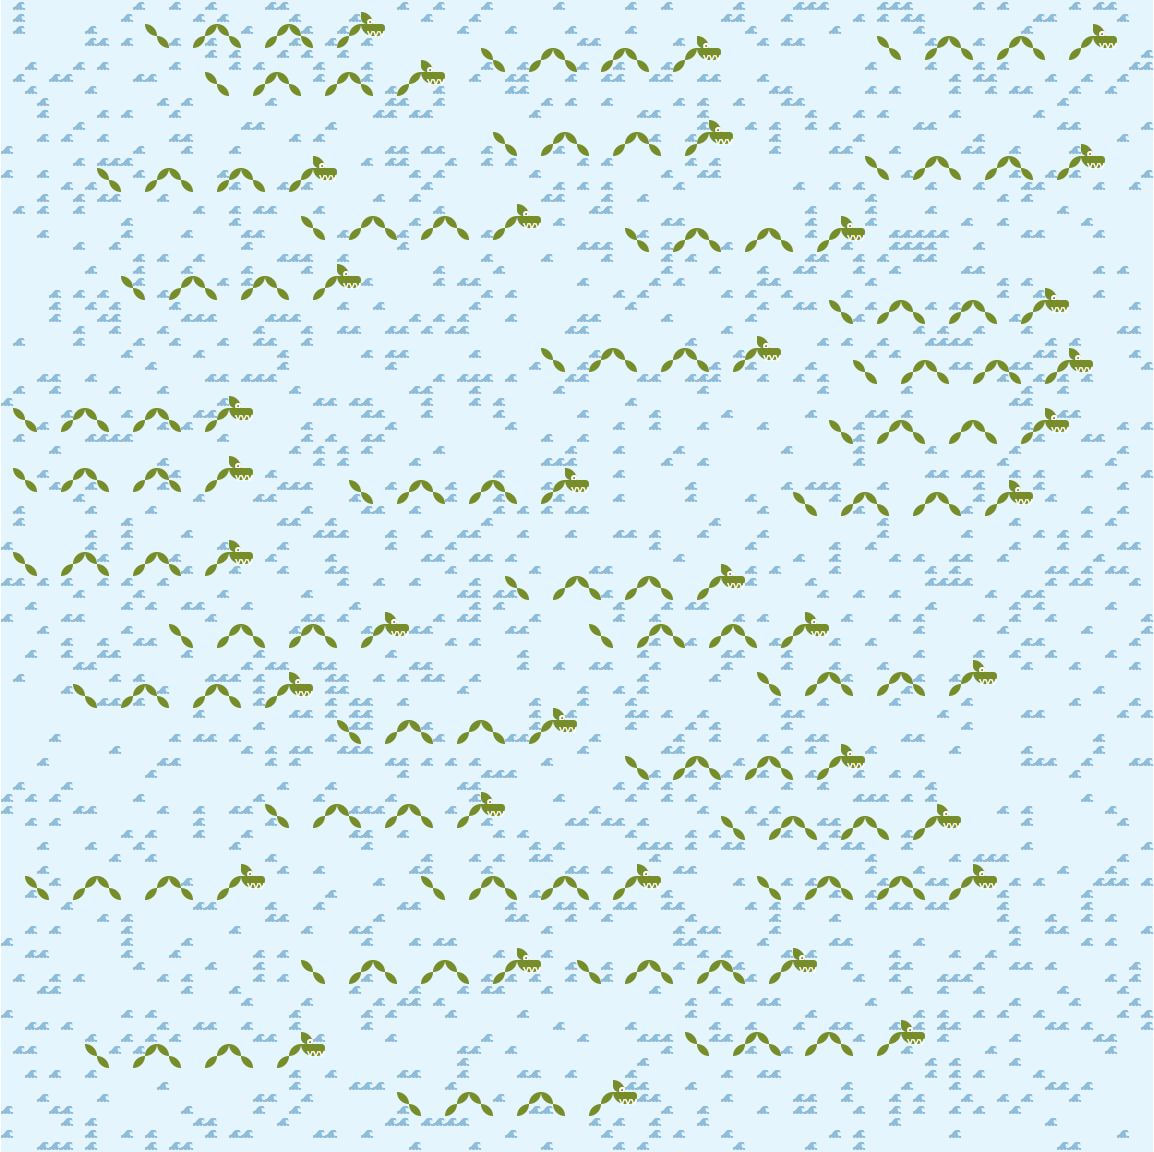
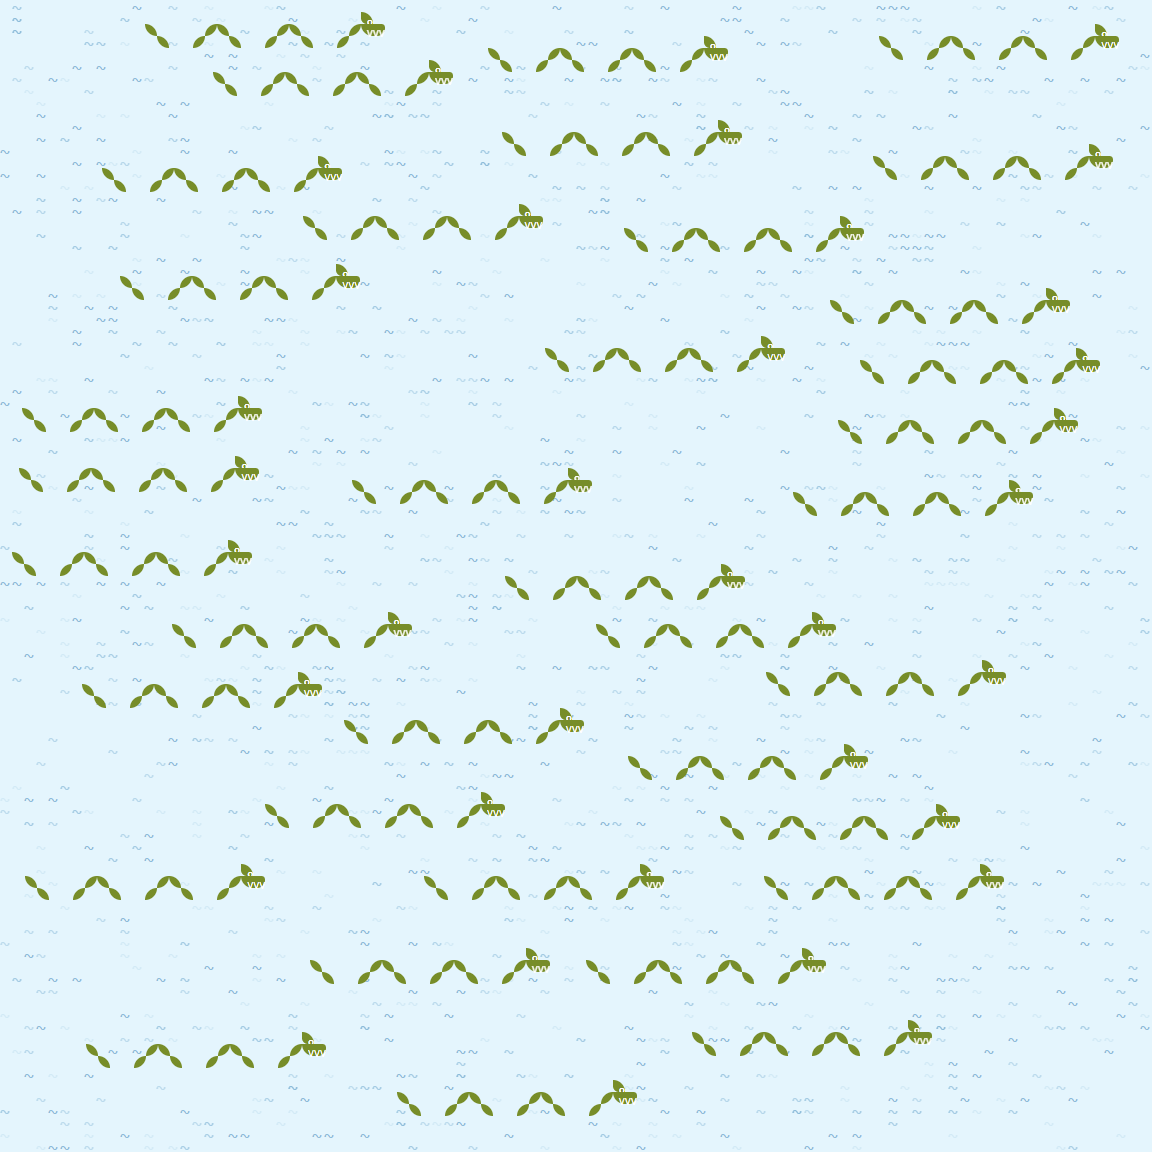
tuned the animation some more

diff --git a/2020/day20/index.html b/2020/day20/index.html
@@ -8,19 +8,19 @@
         #root {
             background-color: #dcf5fd;
             position:absolute;
-            width: 576px;
-            height: 576px;
-            zoom:2;
+            width: 1152px;
+            height: 1152px;
+            /*zoom:2;*/
         }
         .p {
             position:absolute;
-            height: 6px;
-            width: 6px;
-            font-size: 6px;
+            height: 12px;
+            width: 12px;
+            font-size: 12px;
         }
         .t1 {    
             color: #70bcda;
-            margin-top: -2px;
+            margin-top: -4px;
             -webkit-transition: opacity 1s ease-in-out;
             -moz-transition: opacity 1s ease-in-out;
             -ms-transition: opacity 1s ease-in-out;
@@ -31,42 +31,46 @@
             opacity:0.2;
         }
         .t1:after {
-            content: '🌊';
+            content: '~';
+            font-size:18px;
+            font-family:monospace;
         }
         .t2, .t3, .t4, .t5, .t6 {
             background-color: #6B8E23;
             z-index:10;
             color:white;
-            font-family: cursive;
+            font-family: sans-serif;
+            line-height:1.5;
         }
         .t2 {
-            border-bottom-left-radius: 10px;
-            border-top-right-radius: 10px;
+            border-bottom-left-radius: 20px;
+            border-top-right-radius: 20px;
         }
         .t3 {
-            border-bottom-right-radius: 10px;
-            border-top-left-radius: 10px;
+            border-bottom-right-radius: 20px;
+            border-top-left-radius: 20px;
         }
         .t4 {
-            border-bottom-left-radius: 5px;
-            border-top-right-radius: 10px;
+            border-bottom-left-radius: 10px;
+            border-top-right-radius: 20px;
         }
         .t4:after {
             content: 'o';
-            margin-left: 3px;
+            margin-left: 6px;
             font-weight: bold;
+            font-size: 10px;
         }
         .t5 {
-            border-bottom-left-radius: 10px;
+            border-bottom-left-radius: 20px;
             border-top-right-radius: 0px;
         }
         .t6 {
-            border-bottom-right-radius: 10px;
-            border-top-right-radius: 5px;
+            border-bottom-right-radius: 20px;
+            border-top-right-radius: 10px;
         }
         .t6:after {
             content: 'vvv';
-            margin-left: -3px;
+            margin-left: -6px;
         }
         .p.animated {
             -webkit-animation: ease-in-out infinite alternate;
@@ -75,7 +79,7 @@
         }
         @-webkit-keyframes run {
             0% {margin-left: 0}
-            50% {margin-left: 5px}
+            50% {margin-left: 10px}
             100% {margin-left: 0}
         }
     </style>

diff --git a/2020/day20/script.js b/2020/day20/script.js
@@ -7,7 +7,7 @@ const processImage = (img, monsterCount = 0) => {
     const monsters = () => img.reduce((a,l,y) => a+l.filter((c,x) => img[y+2] && l[x+20] && isMonsterAt(x,y) && markMonsterAt(x,y) && monsterCount++).length, 0)
     const animateWaves = (waves = document.querySelectorAll('.t1')) => waves.forEach(w => Math.random() < 0.4 && w.classList.toggle('hidden'))
     const genHtml = () => img.reduce((s,l,y) => s+l.reduce((s2,p,x) => s2 += p == 0 ? '' :
-        `<div class="p t${p % 100} m${Math.floor(p/100)}" style="left:${x*6}px;top:${y*6}px"></div>`, ''), '')
+        `<div class="p t${p % 100} m${Math.floor(p/100)}" style="left:${x*12}px;top:${y*12}px"></div>`, ''), '')
     const animateMonster = (m, parts = document.querySelectorAll('.m'+m)) => {
         if (parts.length > 0) parts.forEach(p => p.classList.add('animated'));
         if (m < monsterCount) setTimeout(() => animateMonster(m+1), parts.length > 0 ? 200 : 0);
